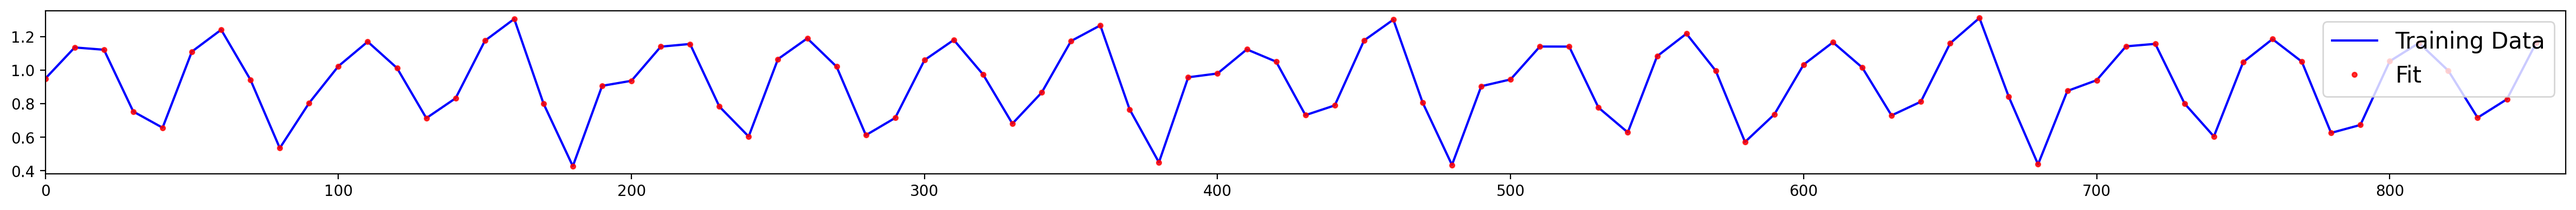
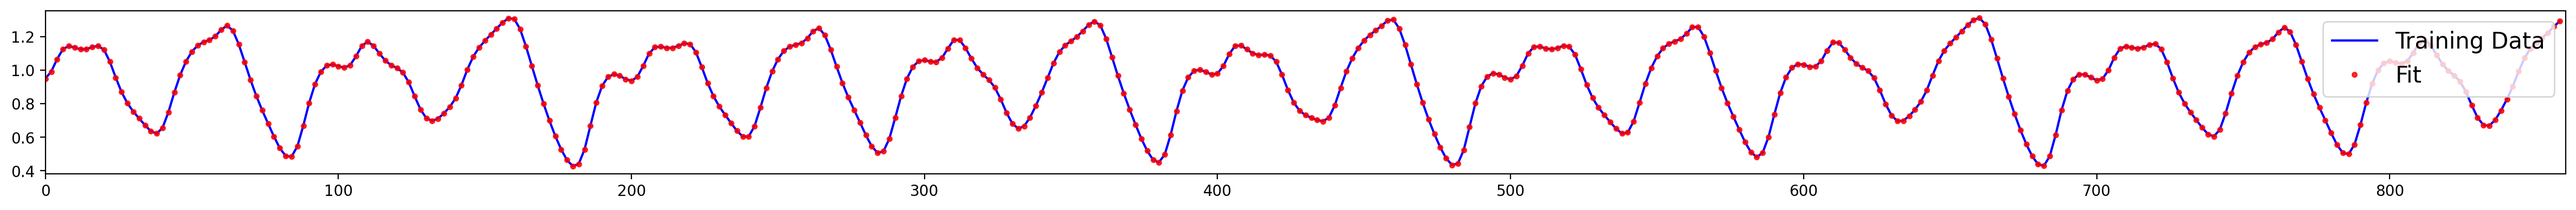
changed mackey-glass small dataset notebook

diff --git a/Examples/SimpleESN/small/SimpleESN_small.html b/Examples/SimpleESN/small/SimpleESN_small.html
@@ -13166,11 +13166,10 @@ $( document ).ready(function(){
 <body>
 
 <div class="topnav" id="topnav">
-  <a href="SimpleESN_large.html">Larger Dataset</a>
+  <a href="../SimpleESN_large.html">Larger Dataset</a>
   <a class="active" href="SimpleESN_small.html">Smaller Dataset</a>
   <a class="new" href="https://quantumyilmaz.github.io/MTFS21/">Home</a>
 </div>
-
   <div tabindex="-1" id="notebook" class="border-box-sizing">
     <div class="container" id="notebook-container">
 
@@ -13282,7 +13281,7 @@ $( document ).ready(function(){
 
 
 <div class="output_png output_subarea ">
-<img src="./small/output_5_0.png"
+<img src="output_5_0.png"
 >
 </div>
 
@@ -13432,7 +13431,7 @@ Done: 1.2499999999999947
 
 
 <div class="output_subarea output_stream output_stdout output_text">
-<pre>Ridge Regression: 0.03131389617919922 seconds
+<pre>Ridge Regression: 0.031584978103637695 seconds
 MSE train: 1.73577079564096e-08
 </pre>
 </div>
@@ -13451,11 +13450,11 @@ MSE train: 1.73577079564096e-08
 </div>
 <div class="cell border-box-sizing code_cell rendered">
 <div class="input">
-<div class="prompt input_prompt">In&nbsp;[7]:</div>
+<div class="prompt input_prompt">In&nbsp;[21]:</div>
 <div class="inner_cell">
     <div class="input_area">
 <div class=" highlight hl-ipython3"><pre><span></span><span class="n">plt</span><span class="o">.</span><span class="n">figure</span><span class="p">(</span><span class="n">figsize</span><span class="o">=</span><span class="p">(</span><span class="mi">30</span><span class="p">,</span><span class="mi">2</span><span class="p">),</span><span class="n">dpi</span><span class="o">=</span><span class="mi">200</span><span class="p">)</span>
-<span class="n">incr</span> <span class="o">=</span> <span class="mi">10</span>
+<span class="n">incr</span> <span class="o">=</span> <span class="mi">2</span>
 <span class="n">plt</span><span class="o">.</span><span class="n">plot</span><span class="p">(</span><span class="nb">range</span><span class="p">(</span><span class="mi">0</span><span class="p">,</span><span class="n">trainLen</span><span class="o">-</span><span class="n">initLen</span><span class="p">,</span><span class="n">incr</span><span class="p">),</span><span class="n">data</span><span class="p">[</span><span class="n">initLen</span><span class="o">+</span><span class="mi">1</span><span class="p">:</span><span class="n">trainLen</span><span class="o">+</span><span class="mi">1</span><span class="p">][::</span><span class="n">incr</span><span class="p">],</span><span class="s1">&#39;blue&#39;</span><span class="p">,</span><span class="n">label</span><span class="o">=</span><span class="s1">&#39;Training Data&#39;</span><span class="p">)</span>
 <span class="n">plt</span><span class="o">.</span><span class="n">plot</span><span class="p">(</span><span class="nb">range</span><span class="p">(</span><span class="mi">0</span><span class="p">,</span><span class="n">trainLen</span><span class="o">-</span><span class="n">initLen</span><span class="p">,</span><span class="n">incr</span><span class="p">),</span><span class="n">np</span><span class="o">.</span><span class="n">dot</span><span class="p">(</span><span class="n">Wout</span><span class="p">,</span><span class="n">X</span><span class="p">)</span><span class="o">.</span><span class="n">ravel</span><span class="p">()[::</span><span class="n">incr</span><span class="p">],</span><span class="s1">&#39;r.&#39;</span><span class="p">,</span><span class="n">alpha</span> <span class="o">=</span> <span class="mf">0.8</span><span class="p">,</span><span class="n">label</span><span class="o">=</span><span class="s1">&#39;Fit&#39;</span><span class="p">);</span>
 <span class="n">plt</span><span class="o">.</span><span class="n">legend</span><span class="p">(</span><span class="n">fontsize</span><span class="o">=</span><span class="mi">15</span><span class="p">,</span><span class="n">loc</span><span class="o">=</span><span class="s2">&quot;upper right&quot;</span><span class="p">);</span>
@@ -13478,7 +13477,7 @@ MSE train: 1.73577079564096e-08
 
 
 <div class="output_png output_subarea ">
-<img src="./small/output_14_0.png"
+<img src="output_14_0.png"
 >
 </div>
 
@@ -13537,7 +13536,7 @@ MSE train: 1.73577079564096e-08
 
 
 <div class="output_subarea output_stream output_stdout output_text">
-<pre>RC Forecast time (Generative): 0.05891013145446777 seconds
+<pre>RC Forecast time (Generative): 0.05634307861328125 seconds
 MSE validation: 0.0002128705309799163
 </pre>
 </div>
@@ -13560,7 +13559,7 @@ MSE validation: 0.0002128705309799163
 <div class="inner_cell">
     <div class="input_area">
 <div class=" highlight hl-ipython3"><pre><span></span><span class="n">plt</span><span class="o">.</span><span class="n">figure</span><span class="p">(</span><span class="n">figsize</span><span class="o">=</span><span class="p">(</span><span class="mi">30</span><span class="p">,</span><span class="mi">4</span><span class="p">),</span><span class="n">dpi</span><span class="o">=</span><span class="mi">200</span><span class="p">)</span>
-<span class="n">incr</span> <span class="o">=</span> <span class="mi">2</span>
+<span class="n">incr</span> <span class="o">=</span> <span class="mi">1</span>
 <span class="n">plt</span><span class="o">.</span><span class="n">plot</span><span class="p">(</span><span class="nb">range</span><span class="p">(</span><span class="mi">0</span><span class="p">,</span><span class="n">errorLen</span><span class="p">,</span><span class="n">incr</span><span class="p">),</span><span class="n">data</span><span class="p">[</span><span class="n">trainLen</span><span class="o">+</span><span class="mi">1</span><span class="p">:</span><span class="n">trainLen</span><span class="o">+</span><span class="n">errorLen</span><span class="o">+</span><span class="mi">1</span><span class="p">][::</span><span class="n">incr</span><span class="p">],</span><span class="s1">&#39;blue&#39;</span><span class="p">,</span><span class="n">label</span><span class="o">=</span><span class="s1">&#39;Ground Truth&#39;</span><span class="p">)</span>
 <span class="n">plt</span><span class="o">.</span><span class="n">plot</span><span class="p">(</span><span class="nb">range</span><span class="p">(</span><span class="mi">0</span><span class="p">,</span><span class="n">errorLen</span><span class="p">,</span><span class="n">incr</span><span class="p">),</span><span class="n">y_val</span><span class="p">[:,:</span><span class="n">errorLen</span><span class="p">]</span><span class="o">.</span><span class="n">ravel</span><span class="p">()[::</span><span class="n">incr</span><span class="p">],</span><span class="s1">&#39;r.&#39;</span><span class="p">,</span><span class="n">alpha</span> <span class="o">=</span> <span class="mf">0.8</span><span class="p">,</span><span class="n">label</span><span class="o">=</span><span class="s1">&#39;Prediction&#39;</span><span class="p">);</span>
 <span class="n">plt</span><span class="o">.</span><span class="n">legend</span><span class="p">(</span><span class="n">fontsize</span><span class="o">=</span><span class="mi">15</span><span class="p">,</span><span class="n">loc</span><span class="o">=</span><span class="s2">&quot;lower left&quot;</span><span class="p">);</span>
@@ -13583,7 +13582,7 @@ MSE validation: 0.0002128705309799163
 
 
 <div class="output_png output_subarea ">
-<img src="./small/output_18_0.png"
+<img src="output_18_0.png"
 >
 </div>
 
@@ -13639,7 +13638,7 @@ MSE validation: 0.0002128705309799163
 
 
 <div class="output_subarea output_stream output_stdout output_text">
-<pre>RC Forecast time (Predictive): 0.0639028549194336 seconds
+<pre>RC Forecast time (Predictive): 0.07089519500732422 seconds
 MSE validation: 6.393800753838671e-08
 </pre>
 </div>
@@ -13662,7 +13661,7 @@ MSE validation: 6.393800753838671e-08
 <div class="inner_cell">
     <div class="input_area">
 <div class=" highlight hl-ipython3"><pre><span></span><span class="n">plt</span><span class="o">.</span><span class="n">figure</span><span class="p">(</span><span class="n">figsize</span><span class="o">=</span><span class="p">(</span><span class="mi">30</span><span class="p">,</span><span class="mi">4</span><span class="p">),</span><span class="n">dpi</span><span class="o">=</span><span class="mi">200</span><span class="p">)</span>
-<span class="n">incr</span> <span class="o">=</span> <span class="mi">2</span>
+<span class="n">incr</span> <span class="o">=</span> <span class="mi">1</span>
 <span class="n">plt</span><span class="o">.</span><span class="n">plot</span><span class="p">(</span><span class="nb">range</span><span class="p">(</span><span class="mi">0</span><span class="p">,</span><span class="n">errorLen</span><span class="p">,</span><span class="n">incr</span><span class="p">),</span><span class="n">data</span><span class="p">[</span><span class="n">trainLen</span><span class="o">+</span><span class="mi">1</span><span class="p">:</span><span class="n">trainLen</span><span class="o">+</span><span class="n">errorLen</span><span class="o">+</span><span class="mi">1</span><span class="p">][::</span><span class="n">incr</span><span class="p">],</span><span class="s1">&#39;blue&#39;</span><span class="p">,</span><span class="n">label</span><span class="o">=</span><span class="s1">&#39;Ground Truth&#39;</span><span class="p">)</span>
 <span class="n">plt</span><span class="o">.</span><span class="n">plot</span><span class="p">(</span><span class="nb">range</span><span class="p">(</span><span class="mi">0</span><span class="p">,</span><span class="n">errorLen</span><span class="p">,</span><span class="n">incr</span><span class="p">),</span><span class="n">y_val</span><span class="p">[:,:</span><span class="n">errorLen</span><span class="p">]</span><span class="o">.</span><span class="n">ravel</span><span class="p">()[::</span><span class="n">incr</span><span class="p">],</span><span class="s1">&#39;r.&#39;</span><span class="p">,</span><span class="n">alpha</span> <span class="o">=</span> <span class="mf">0.8</span><span class="p">,</span><span class="n">label</span><span class="o">=</span><span class="s1">&#39;Prediction&#39;</span><span class="p">);</span>
 <span class="n">plt</span><span class="o">.</span><span class="n">legend</span><span class="p">(</span><span class="n">fontsize</span><span class="o">=</span><span class="mi">15</span><span class="p">,</span><span class="n">loc</span><span class="o">=</span><span class="s2">&quot;lower left&quot;</span><span class="p">);</span>
@@ -13685,7 +13684,7 @@ MSE validation: 6.393800753838671e-08
 
 
 <div class="output_png output_subarea ">
-<img src="./small/output_22_0.png"
+<img src="output_22_0.png"
 >
 </div>
 
@@ -13708,8 +13707,8 @@ MSE validation: 6.393800753838671e-08
 <div class="inner_cell">
     <div class="input_area">
 <div class=" highlight hl-ipython3"><pre><span></span><span class="n">plt</span><span class="o">.</span><span class="n">figure</span><span class="p">(</span><span class="n">figsize</span><span class="o">=</span><span class="p">(</span><span class="mi">20</span><span class="p">,</span><span class="mi">5</span><span class="p">),</span><span class="n">dpi</span><span class="o">=</span><span class="mi">200</span><span class="p">)</span>
-<span class="n">plt</span><span class="o">.</span><span class="n">plot</span><span class="p">(</span><span class="n">X_val</span><span class="p">[:</span><span class="mi">10</span><span class="p">]</span><span class="o">.</span><span class="n">T</span><span class="p">)</span>
-<span class="n">plt</span><span class="o">.</span><span class="n">legend</span><span class="p">(</span><span class="n">labels</span><span class="o">=</span><span class="p">[</span><span class="sa">f</span><span class="s2">&quot;State </span><span class="si">{</span><span class="n">i</span><span class="si">}</span><span class="s2">&quot;</span> <span class="k">for</span> <span class="n">i</span> <span class="ow">in</span> <span class="nb">range</span><span class="p">(</span><span class="mi">10</span><span class="p">)]);</span>
+<span class="n">plt</span><span class="o">.</span><span class="n">plot</span><span class="p">(</span><span class="n">X_val</span><span class="p">[:</span><span class="mi">10</span><span class="p">,:</span><span class="o">-</span><span class="mi">1</span><span class="p">]</span><span class="o">.</span><span class="n">T</span><span class="p">)</span>
+<span class="n">plt</span><span class="o">.</span><span class="n">legend</span><span class="p">(</span><span class="n">labels</span><span class="o">=</span><span class="p">[</span><span class="sa">f</span><span class="s2">&quot;State </span><span class="si">{</span><span class="n">i</span><span class="o">+</span><span class="mi">1</span><span class="si">}</span><span class="s2">&quot;</span> <span class="k">for</span> <span class="n">i</span> <span class="ow">in</span> <span class="nb">range</span><span class="p">(</span><span class="mi">10</span><span class="p">)]);</span>
 </pre></div>
 
     </div>
@@ -13728,7 +13727,7 @@ MSE validation: 6.393800753838671e-08
 
 
 <div class="output_png output_subarea ">
-<img src="./small/output_24_0.png"
+<img src="output_24_0.png"
 >
 </div>
 
@@ -13854,7 +13853,7 @@ _________________________________________________________________
     <span class="k">def</span> <span class="fm">__init__</span><span class="p">(</span><span class="bp">self</span><span class="p">,</span> <span class="n">epochs_tot</span><span class="p">):</span>
         <span class="nb">super</span><span class="p">()</span><span class="o">.</span><span class="fm">__init__</span><span class="p">()</span>
         <span class="bp">self</span><span class="o">.</span><span class="n">epochs</span><span class="o">=</span><span class="n">epochs_tot</span>
-        <span class="bp">self</span><span class="o">.</span><span class="n">threshold</span> <span class="o">=</span> <span class="mi">20</span>
+        <span class="bp">self</span><span class="o">.</span><span class="n">threshold</span> <span class="o">=</span> <span class="mi">1000</span>
 
     <span class="k">def</span> <span class="nf">on_epoch_begin</span><span class="p">(</span><span class="bp">self</span><span class="p">,</span> <span class="n">epoch</span><span class="p">,</span> <span class="n">logs</span><span class="o">=</span><span class="kc">None</span><span class="p">):</span>
         <span class="bp">self</span><span class="o">.</span><span class="n">time_begin</span> <span class="o">=</span> <span class="n">time</span><span class="o">.</span><span class="n">time</span><span class="p">()</span>
@@ -13863,8 +13862,8 @@ _________________________________________________________________
         <span class="k">if</span> <span class="p">(</span><span class="n">epoch</span><span class="o">+</span><span class="mi">1</span><span class="p">)</span> <span class="o">%</span> <span class="bp">self</span><span class="o">.</span><span class="n">threshold</span> <span class="o">==</span> <span class="mi">0</span> <span class="ow">or</span> <span class="n">epoch</span><span class="o">==</span><span class="mi">0</span><span class="p">:</span>
             <span class="nb">print</span><span class="p">(</span><span class="sa">f</span><span class="s2">&quot;The average </span><span class="si">{</span><span class="bp">self</span><span class="o">.</span><span class="n">model</span><span class="o">.</span><span class="n">loss</span><span class="si">}</span><span class="s2"> in epoch </span><span class="si">{</span><span class="n">epoch</span><span class="o">+</span><span class="mi">1</span><span class="si">}</span><span class="s2"> is </span><span class="si">{</span><span class="n">logs</span><span class="p">[</span><span class="s1">&#39;loss&#39;</span><span class="p">]</span><span class="si">:</span><span class="s2">1.8f</span><span class="si">}</span><span class="s2">. Duration: </span><span class="si">{</span><span class="n">duration</span><span class="si">}</span><span class="s2"> seconds&quot;</span><span class="p">)</span>
             
-<span class="n">epochs</span> <span class="o">=</span> <span class="mi">500</span>
-<span class="n">batch_size</span> <span class="o">=</span> <span class="mi">1024</span>
+<span class="n">epochs</span> <span class="o">=</span> <span class="mi">10000</span>
+<span class="n">batch_size</span> <span class="o">=</span> <span class="mi">1201</span>
 <span class="n">reduceLR</span> <span class="o">=</span> <span class="n">ReduceLROnPlateau</span><span class="p">(</span><span class="n">monitor</span><span class="o">=</span><span class="s1">&#39;loss&#39;</span><span class="p">,</span> <span class="n">factor</span><span class="o">=</span><span class="mf">0.5</span><span class="p">,</span> <span class="n">patience</span><span class="o">=</span><span class="n">epochs</span><span class="o">//</span><span class="mi">10</span><span class="p">,</span> <span class="n">min_lr</span><span class="o">=</span><span class="mf">1e-7</span><span class="p">,</span> <span class="n">verbose</span><span class="o">=</span><span class="mi">1</span><span class="p">)</span>
 <span class="n">earlyStopping</span> <span class="o">=</span> <span class="n">EarlyStopping</span><span class="p">(</span><span class="n">monitor</span><span class="o">=</span><span class="s1">&#39;loss&#39;</span><span class="p">,</span> <span class="n">patience</span><span class="o">=</span><span class="n">epochs</span><span class="o">//</span><span class="mi">2</span><span class="p">)</span>
 <span class="n">logger</span> <span class="o">=</span> <span class="n">CustomLogger</span><span class="p">(</span><span class="n">epochs</span><span class="p">)</span>
@@ -13886,33 +13885,18 @@ _________________________________________________________________
 
 
 <div class="output_subarea output_stream output_stdout output_text">
-<pre>The average mse in epoch 1 is 2.32789612. Duration: 2.0513179302215576 seconds
-The average mse in epoch 20 is 0.69028628. Duration: 0.005082130432128906 seconds
-The average mse in epoch 40 is 0.52754414. Duration: 0.005169868469238281 seconds
-The average mse in epoch 60 is 0.39642093. Duration: 0.00499725341796875 seconds
-The average mse in epoch 80 is 0.28937060. Duration: 0.005099058151245117 seconds
-The average mse in epoch 100 is 0.20323604. Duration: 0.005208253860473633 seconds
-The average mse in epoch 120 is 0.13633676. Duration: 0.005302906036376953 seconds
-The average mse in epoch 140 is 0.08684246. Duration: 0.005284786224365234 seconds
-The average mse in epoch 160 is 0.05236972. Duration: 0.005217075347900391 seconds
-The average mse in epoch 180 is 0.02997912. Duration: 0.005025148391723633 seconds
-The average mse in epoch 200 is 0.01650803. Duration: 0.005023956298828125 seconds
-The average mse in epoch 220 is 0.00903219. Duration: 0.004920005798339844 seconds
-The average mse in epoch 240 is 0.00520708. Duration: 0.005001068115234375 seconds
-The average mse in epoch 260 is 0.00340104. Duration: 0.0049152374267578125 seconds
-The average mse in epoch 280 is 0.00260972. Duration: 0.005102872848510742 seconds
-The average mse in epoch 300 is 0.00228104. Duration: 0.0050258636474609375 seconds
-The average mse in epoch 320 is 0.00214636. Duration: 0.005140066146850586 seconds
-The average mse in epoch 340 is 0.00208764. Duration: 0.004800081253051758 seconds
-The average mse in epoch 360 is 0.00205622. Duration: 0.005102872848510742 seconds
-The average mse in epoch 380 is 0.00203510. Duration: 0.00493311882019043 seconds
-The average mse in epoch 400 is 0.00201727. Duration: 0.005198955535888672 seconds
-The average mse in epoch 420 is 0.00200039. Duration: 0.0053501129150390625 seconds
-The average mse in epoch 440 is 0.00198312. Duration: 0.005197048187255859 seconds
-The average mse in epoch 460 is 0.00196567. Duration: 0.00498199462890625 seconds
-The average mse in epoch 480 is 0.00194894. Duration: 0.005155086517333984 seconds
-The average mse in epoch 500 is 0.00193253. Duration: 0.004982948303222656 seconds
-RNN Training time: 4.651370048522949 seconds
+<pre>The average mse in epoch 1 is 1.52553332. Duration: 2.046221971511841 seconds
+The average mse in epoch 1000 is 0.00115865. Duration: 0.004729032516479492 seconds
+The average mse in epoch 2000 is 0.00115615. Duration: 0.005995035171508789 seconds
+The average mse in epoch 3000 is 0.00115309. Duration: 0.004934787750244141 seconds
+The average mse in epoch 4000 is 0.00115849. Duration: 0.005274057388305664 seconds
+The average mse in epoch 5000 is 0.00125998. Duration: 0.004949092864990234 seconds
+The average mse in epoch 6000 is 0.00114436. Duration: 0.004997968673706055 seconds
+The average mse in epoch 7000 is 0.00114429. Duration: 0.00494384765625 seconds
+The average mse in epoch 8000 is 0.00114428. Duration: 0.0053632259368896484 seconds
+The average mse in epoch 9000 is 0.00114430. Duration: 0.005043983459472656 seconds
+The average mse in epoch 10000 is 0.00114410. Duration: 0.005009174346923828 seconds
+RNN Training time: 53.8672981262207 seconds
 </pre>
 </div>
 </div>
@@ -13934,7 +13918,7 @@ RNN Training time: 4.651370048522949 seconds
 <div class="inner_cell">
     <div class="input_area">
 <div class=" highlight hl-ipython3"><pre><span></span><span class="n">plt</span><span class="o">.</span><span class="n">figure</span><span class="p">(</span><span class="n">figsize</span><span class="o">=</span><span class="p">(</span><span class="mi">30</span><span class="p">,</span><span class="mi">2</span><span class="p">),</span><span class="n">dpi</span><span class="o">=</span><span class="mi">200</span><span class="p">)</span>
-<span class="n">incr</span> <span class="o">=</span> <span class="mi">10</span>
+<span class="n">incr</span> <span class="o">=</span> <span class="mi">2</span>
 <span class="n">plt</span><span class="o">.</span><span class="n">plot</span><span class="p">(</span><span class="nb">range</span><span class="p">(</span><span class="mi">0</span><span class="p">,</span><span class="n">trainLen</span><span class="p">,</span><span class="n">incr</span><span class="p">),</span><span class="n">data</span><span class="p">[</span><span class="mi">1</span><span class="p">:</span><span class="n">trainLen</span><span class="o">+</span><span class="mi">1</span><span class="p">][::</span><span class="n">incr</span><span class="p">],</span><span class="s1">&#39;blue&#39;</span><span class="p">,</span><span class="n">label</span><span class="o">=</span><span class="s1">&#39;Ground Truth&#39;</span><span class="p">)</span>
 <span class="n">plt</span><span class="o">.</span><span class="n">plot</span><span class="p">(</span><span class="nb">range</span><span class="p">(</span><span class="mi">0</span><span class="p">,</span><span class="n">trainLen</span><span class="p">,</span><span class="n">incr</span><span class="p">),</span><span class="n">history</span><span class="o">.</span><span class="n">model</span><span class="o">.</span><span class="n">predict</span><span class="p">(</span><span class="n">data</span><span class="p">[:</span><span class="n">trainLen</span><span class="p">,</span><span class="kc">None</span><span class="p">,</span><span class="kc">None</span><span class="p">])[::</span><span class="n">incr</span><span class="p">],</span><span class="s1">&#39;r.&#39;</span><span class="p">,</span><span class="n">alpha</span> <span class="o">=</span> <span class="mf">0.8</span><span class="p">,</span><span class="n">label</span><span class="o">=</span><span class="s1">&#39;Prediction&#39;</span><span class="p">);</span>
 <span class="n">plt</span><span class="o">.</span><span class="n">legend</span><span class="p">(</span><span class="n">fontsize</span><span class="o">=</span><span class="mi">15</span><span class="p">,</span><span class="n">loc</span><span class="o">=</span><span class="s2">&quot;lower left&quot;</span><span class="p">);</span>
@@ -13957,7 +13941,7 @@ RNN Training time: 4.651370048522949 seconds
 
 
 <div class="output_png output_subarea ">
-<img src="./small/output_33_0.png"
+<img src="output_33_0.png"
 >
 </div>
 
@@ -14017,8 +14001,8 @@ RNN Training time: 4.651370048522949 seconds
 
 
 <div class="output_subarea output_stream output_stdout output_text">
-<pre>RNN Forecast time (Generative): 4.646335124969482 seconds
-MSE validation:  1.2069248547558908
+<pre>RNN Forecast time (Generative): 4.561708927154541 seconds
+MSE validation:  0.2474497462546063
 </pre>
 </div>
 </div>
@@ -14040,7 +14024,7 @@ MSE validation:  1.2069248547558908
 <div class="inner_cell">
     <div class="input_area">
 <div class=" highlight hl-ipython3"><pre><span></span><span class="n">plt</span><span class="o">.</span><span class="n">figure</span><span class="p">(</span><span class="n">figsize</span><span class="o">=</span><span class="p">(</span><span class="mi">30</span><span class="p">,</span><span class="mi">4</span><span class="p">),</span><span class="n">dpi</span><span class="o">=</span><span class="mi">200</span><span class="p">)</span>
-<span class="n">incr</span> <span class="o">=</span> <span class="mi">2</span>
+<span class="n">incr</span> <span class="o">=</span> <span class="mi">1</span>
 <span class="n">plt</span><span class="o">.</span><span class="n">plot</span><span class="p">(</span><span class="nb">range</span><span class="p">(</span><span class="mi">0</span><span class="p">,</span><span class="n">errorLen</span><span class="p">,</span><span class="n">incr</span><span class="p">),</span><span class="n">data</span><span class="p">[</span><span class="n">trainLen</span><span class="o">+</span><span class="mi">1</span><span class="p">:</span><span class="n">trainLen</span><span class="o">+</span><span class="n">errorLen</span><span class="o">+</span><span class="mi">1</span><span class="p">][::</span><span class="n">incr</span><span class="p">],</span><span class="s1">&#39;blue&#39;</span><span class="p">,</span><span class="n">label</span><span class="o">=</span><span class="s1">&#39;Ground Truth&#39;</span><span class="p">)</span>
 <span class="n">plt</span><span class="o">.</span><span class="n">plot</span><span class="p">(</span><span class="nb">range</span><span class="p">(</span><span class="mi">0</span><span class="p">,</span><span class="n">errorLen</span><span class="p">,</span><span class="n">incr</span><span class="p">),</span><span class="n">RNN_val</span><span class="p">[::</span><span class="n">incr</span><span class="p">],</span><span class="s1">&#39;r.&#39;</span><span class="p">,</span><span class="n">alpha</span> <span class="o">=</span> <span class="mf">0.8</span><span class="p">,</span><span class="n">label</span><span class="o">=</span><span class="s1">&#39;Prediction&#39;</span><span class="p">);</span>
 <span class="n">plt</span><span class="o">.</span><span class="n">legend</span><span class="p">(</span><span class="n">fontsize</span><span class="o">=</span><span class="mi">15</span><span class="p">,</span><span class="n">loc</span> <span class="o">=</span><span class="s2">&quot;lower left&quot;</span><span class="p">);</span>
@@ -14063,7 +14047,7 @@ MSE validation:  1.2069248547558908
 
 
 <div class="output_png output_subarea ">
-<img src="./small/output_38_0.png"
+<img src="output_38_0.png"
 >
 </div>
 
@@ -14106,8 +14090,8 @@ MSE validation:  1.2069248547558908
 
 
 <div class="output_subarea output_stream output_stdout output_text">
-<pre>RNN Forecast time (Predictive): 0.028603076934814453 seconds
-MSE validation:  1.3485601339690458
+<pre>RNN Forecast time (Predictive): 0.03420615196228027 seconds
+MSE validation:  0.11024220912403683
 </pre>
 </div>
 </div>
@@ -14129,7 +14113,7 @@ MSE validation:  1.3485601339690458
 <div class="inner_cell">
     <div class="input_area">
 <div class=" highlight hl-ipython3"><pre><span></span><span class="n">plt</span><span class="o">.</span><span class="n">figure</span><span class="p">(</span><span class="n">figsize</span><span class="o">=</span><span class="p">(</span><span class="mi">30</span><span class="p">,</span><span class="mi">4</span><span class="p">),</span><span class="n">dpi</span><span class="o">=</span><span class="mi">200</span><span class="p">)</span>
-<span class="n">incr</span> <span class="o">=</span> <span class="mi">2</span>
+<span class="n">incr</span> <span class="o">=</span> <span class="mi">1</span>
 <span class="n">plt</span><span class="o">.</span><span class="n">plot</span><span class="p">(</span><span class="nb">range</span><span class="p">(</span><span class="mi">0</span><span class="p">,</span><span class="n">errorLen</span><span class="p">,</span><span class="n">incr</span><span class="p">),</span><span class="n">data</span><span class="p">[</span><span class="n">trainLen</span><span class="o">+</span><span class="mi">1</span><span class="p">:</span><span class="n">trainLen</span><span class="o">+</span><span class="n">errorLen</span><span class="o">+</span><span class="mi">1</span><span class="p">][::</span><span class="n">incr</span><span class="p">],</span><span class="s1">&#39;blue&#39;</span><span class="p">,</span><span class="n">label</span><span class="o">=</span><span class="s1">&#39;Ground Truth&#39;</span><span class="p">)</span>
 <span class="n">plt</span><span class="o">.</span><span class="n">plot</span><span class="p">(</span><span class="nb">range</span><span class="p">(</span><span class="mi">0</span><span class="p">,</span><span class="n">errorLen</span><span class="p">,</span><span class="n">incr</span><span class="p">),</span><span class="n">RNN_val</span><span class="p">[::</span><span class="n">incr</span><span class="p">],</span><span class="s1">&#39;r.&#39;</span><span class="p">,</span><span class="n">alpha</span> <span class="o">=</span> <span class="mf">0.8</span><span class="p">,</span><span class="n">label</span><span class="o">=</span><span class="s1">&#39;Prediction&#39;</span><span class="p">);</span>
 <span class="n">plt</span><span class="o">.</span><span class="n">legend</span><span class="p">(</span><span class="n">fontsize</span><span class="o">=</span><span class="mi">15</span><span class="p">,</span><span class="n">loc</span> <span class="o">=</span><span class="s2">&quot;lower left&quot;</span><span class="p">);</span>
@@ -14152,7 +14136,7 @@ MSE validation:  1.3485601339690458
 
 
 <div class="output_png output_subarea ">
-<img src="./small/output_42_0.png"
+<img src="output_42_0.png"
 >
 </div>
 
